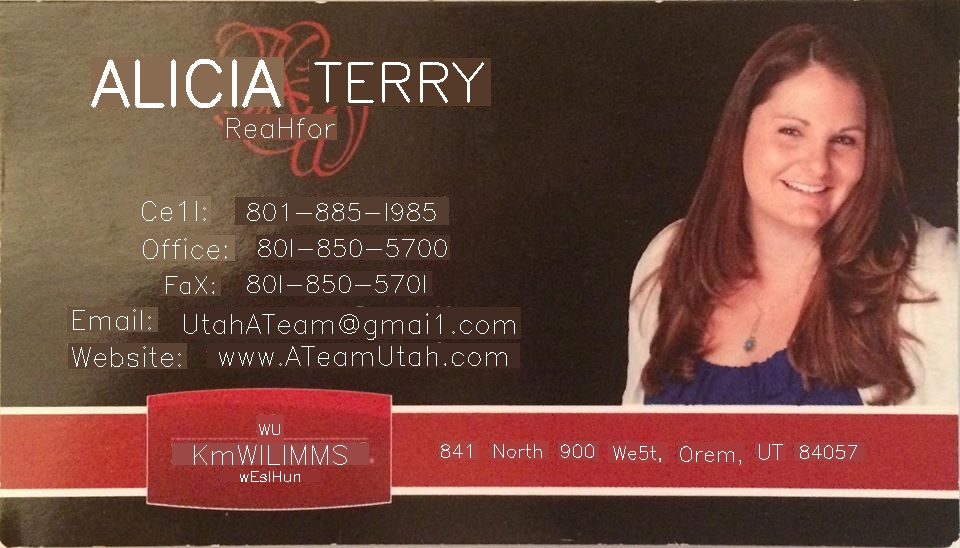
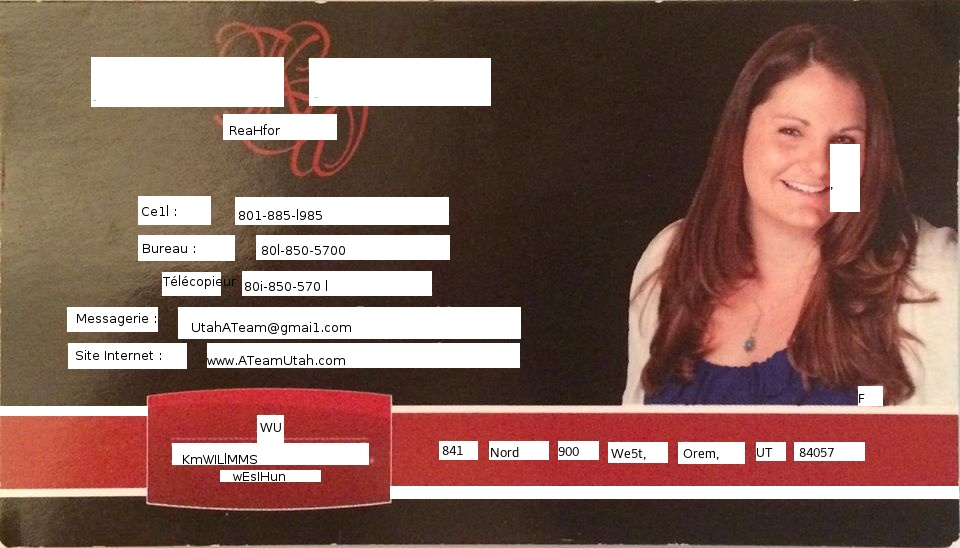
Dernières modifications

diff --git a/readtranslateandwrite.h b/readtranslateandwrite.h
@@ -10,109 +10,119 @@
 using namespace cv;
 using namespace std;
 
-string readTranlateAndWrite(string pathImg)
+Mat readTranslateAndWrite(string pathImg, vector<Rect> &rectangles, vector<string> &componentsRect)
 {
     /// Load source image
     Mat srcImg = imread( pathImg );
-    Mat resImg(srcImg.clone());
 
     std::string voca = "0123456789abcdefghijklmnopqrstuvwxyzABCDEFGHIJKLMNOPQRSTUVWXYZ'.:(),@-";
 
     auto ocr = text::OCRTesseract::create(nullptr, "eng", voca.c_str());
-
-    vector<Rect>   rectangles;
-    vector<string> componentsRect;
+    
     string out;
     ocr->run(srcImg, out, &rectangles, &componentsRect);
 
+    return srcImg;
+}
+
+void rewriteImage(const string &pathImg, const Mat srcImg, Mat &resImg, const vector<Rect> &rectangles,
+                    const vector<string> &componentsRect, int i)
+{
     Mat threshCrop, grayCrop, cropImg;
 
-    // For each rectangle of text found by tesseract
-    for (int i=0; i < rectangles.size(); i++)
-    {
-        if(componentsRect[i].size() > 1)
-        {
-            // Removing text
-
-            // Cropped img
-            cropImg = Mat(srcImg, rectangles[i]);
-            // Convert to Gray
-            cvtColor(cropImg, grayCrop, CV_RGB2GRAY);
-            // Threshold
-            threshold(grayCrop, threshCrop, 0, 255, THRESH_BINARY + THRESH_OTSU);
-
-            // FindContours
-            vector<vector<Point> > contours;
-            vector<Vec4i> hierarchy;
-            findContours(threshCrop, contours, hierarchy, CV_RETR_TREE, CV_CHAIN_APPROX_SIMPLE);
-
-            // if text color == white, inverse color
-            if ( (int) threshCrop.at<unsigned char>(contours[0][0].x,contours[0][0].y) != 255 )
-            {
-                // create a matrix with all elements equal to 255 for subtraction
-                Mat sub_mat = Mat::ones(threshCrop.size(), threshCrop.type())*255;
-
-                //subtract the original matrix by sub_mat to give the negative output new_image
-                subtract(sub_mat, threshCrop, threshCrop);
-            }
-
-            // extract background of cropped Mat
-            auto m = mean(cropImg, threshCrop);
-
-            // Draw mean reactangle on result Image
-            rectangle(resImg, rectangles[i].tl(), rectangles[i].br(), cv::Scalar(m[0], m[1], m[2]), CV_FILLED);
-
-            /******* Adapt text size to rectangle *******/
-            Size textRectangle = rectangles[i].size();
-
-
-            String text = componentsRect[i];
-            int fontFace = FONT_HERSHEY_SIMPLEX;
-            double fontScale = 20;
-            int thickness = textRectangle.height/16;
-            if (thickness == 0)
-                thickness = 1;
-            int baseline=0;
-
-            Size textSize = getTextSize(text, fontFace, fontScale, thickness, &baseline);
-            while ( textRectangle.height < textSize.height
-                    || textRectangle.width < textSize.width )
-            {
-                fontScale -= 0.1;
-                textSize = getTextSize(text, fontFace, fontScale, thickness, &baseline);
-            }
-
-            // center the text
-            Point textOrg(rectangles[i].tl().x + (rectangles[i].width - textSize.width)/2,
-                          rectangles[i].br().y - (rectangles[i].height - textSize.height)/2);
-
-            // then put the text in the mean rectangle
-            putText(resImg, text, textOrg, fontFace, fontScale,
-                    Scalar::all(255), thickness, 8);
-            cout << srcImg.at<Vec3b>(rectangles[i].tl().x + contours[0][0].x,
-                    rectangles[i].tl().y + contours[0][0].y) << endl;
-
-        }
-    }
-
-    //std::cout << out << std::endl;
-
-    //cv::imshow("result", resImg);
-    //cv::waitKey();
-
-    /// Create Window with source image
     char* source_window = "Source";
     namedWindow( source_window, CV_WINDOW_AUTOSIZE );
 
-    cv::imshow(source_window, resImg);
-    cv::waitKey();
+    if(componentsRect[i].size() > 1)
+    {
+        // Removing text
+
+        // Cropped img
+        cropImg = Mat(srcImg, rectangles[i]);
+        // Convert to Gray
+        cvtColor(cropImg, grayCrop, CV_RGB2GRAY);
+        // Threshold
+        threshold(grayCrop, threshCrop, 0, 255, THRESH_BINARY + THRESH_OTSU);
+
+        // FindContours
+        vector<vector<Point> > contours;
+        vector<Vec4i> hierarchy;
+        findContours(threshCrop, contours, hierarchy, CV_RETR_TREE, CV_CHAIN_APPROX_SIMPLE);
+        /*
+        if (contours.size() == 0)
+            return;
+        */
+
+        // if text color == white, inverse color
+        if ( (int) threshCrop.at<unsigned char>(contours[0][0].x,contours[0][0].y) != 255 )
+        {
+            // create a matrix with all elements equal to 255 for subtraction
+            Mat sub_mat = Mat::ones(threshCrop.size(), threshCrop.type()) * 255;
+
+            //subtract the original matrix by sub_mat to give the negative output new_image
+            subtract(sub_mat, threshCrop, threshCrop);
+        }
+
+        // extract background of cropped Mat
+        auto m = mean(cropImg, threshCrop);
+
+        // Draw mean reactangle on result Image
+        rectangle(resImg, rectangles[i].tl(), rectangles[i].br(), Scalar(m[0], m[1], m[2]), CV_FILLED);
+
+        /******* Adapt text size to rectangle *******/
+        Size textRectangle = rectangles[i].size();
+
+
+        String text = componentsRect[i];
+
+
+
+        int fontFace = FONT_HERSHEY_SIMPLEX;
+        double fontScale = 20;
+        int thickness = textRectangle.height/16;
+        if (thickness == 0)
+            thickness = 1;
+        int baseline=0;
+
+        Size textSize = getTextSize(text, fontFace, fontScale, thickness, &baseline);
+        while ( textRectangle.height < textSize.height
+                || textRectangle.width < textSize.width )
+        {
+            fontScale -= 0.1;
+            textSize = getTextSize(text, fontFace, fontScale, thickness, &baseline);
+        }
+
+        // center the text
+        Point textOrg(rectangles[i].tl().x + (rectangles[i].width - textSize.width)/2,
+                      rectangles[i].br().y - (rectangles[i].height - textSize.height)/2);
+
+        // then put the text in the mean rectangle
+
+        //QtFont font = fontQt("Times", fontScale);
+        //addText(resImg, text, textOrg, font);
+        putText(resImg, text, textOrg, fontFace, fontScale, Scalar_<int>::all(255), thickness, 8);
+        //cout << srcImg.at<Vec3b>(rectangles[i].tl().x + contours[0][0].x, rectangles[i].tl().y + contours[0][0].y) << endl;
+
+    }
+}
+
+string writeToFile(const string &pathImg, const Mat &resImg)
+{
+    // Create Window with source image
+    //char* source_window = "Source";
+    //namedWindow( source_window, CV_WINDOW_AUTOSIZE );
+
+    imshow("Source", resImg);
+    waitKey();
 
     size_t pos = pathImg.find_last_of('.');
-    pathImg.insert(pos, "_trad");
 
-    imwrite(pathImg, resImg);
-    cout << "image : " << pathImg << " created !";
+    string pathResImg = pathImg;
+    pathResImg.insert(pos, "_trad");
 
-    return pathImg;
+    imwrite(pathResImg, resImg);
+    cout << "image : " << pathResImg << " created !";
+
+    return pathResImg;
 }
 

diff --git a/mainwindow.cpp b/mainwindow.cpp
@@ -7,11 +7,55 @@ MainWindow::MainWindow(QWidget *parent) :
     ui(new Ui::MainWindow)
 {
     ui->setupUi(this);
+
+    m_translator = new BingTranslator(this);
+
+    m_scene = new QGraphicsScene(ui->graphicsView);
+
+    connect(m_translator, &BingTranslator::translationSent, this, &MainWindow::text_translated);
+
+    connect(m_translator, &BingTranslator::translationError, [this](QString message) {
+        cout << message.toStdString() << endl;
+
+        m_translationCounter++;
+
+        if (m_translationCounter == m_rectanglesTexts.size()) {
+            displayResults();
+        } else {
+            m_translator->translate(m_rectanglesTexts[m_translationCounter], "en", "fr", m_translationCounter);
+        }
+    });
 }
 
 MainWindow::~MainWindow()
 {
     delete ui;
+}
+
+void MainWindow::text_translated(std::string text, int id)
+{
+    m_translatedRectangles[id] = text;
+
+    cout << "Traduction rectangle : " << id << endl;
+
+    rewriteImage(fileName.toStdString(), m_srcImg, m_resImg, m_rectangles, m_translatedRectangles, id);
+    m_translationCounter++;
+    
+    if (m_translationCounter == m_rectanglesTexts.size()) {
+        for (string s : m_translatedRectangles) {
+            cout << s << endl;
+        }
+        displayResults();
+    } else {
+        m_translator->translate(m_rectanglesTexts[m_translationCounter], "en", "fr", m_translationCounter);
+    }
+}
+
+void MainWindow::displayResults() const
+{
+    const string resFileName = writeToFile(fileName.toStdString(), m_resImg);
+
+    m_scene->addPixmap(QPixmap(QString::fromStdString(resFileName)));
 }
 
 
@@ -30,13 +74,12 @@ void MainWindow::on_pushButton_2_clicked()
         }
         QTextStream in(&file);
 
-        QGraphicsScene *scene = new QGraphicsScene;
         QPixmap pixmap(fileName);
-        scene->addPixmap(pixmap);
-        ui->graphicsView->setScene(scene);
+        m_scene->addPixmap(pixmap);
+        ui->graphicsView->setScene(m_scene);
         ui->graphicsView->show();
-        ui->graphicsView->ensureVisible ( scene->sceneRect() );
-        ui->graphicsView->fitInView( scene->sceneRect(), Qt::KeepAspectRatio);
+        ui->graphicsView->ensureVisible ( m_scene->sceneRect() );
+        ui->graphicsView->fitInView( m_scene->sceneRect(), Qt::KeepAspectRatio);
 
         file.close();
     }
@@ -44,7 +87,10 @@ void MainWindow::on_pushButton_2_clicked()
 
 void MainWindow::on_pushButton_clicked()
 {
-    std::string tradFile = readTranlateAndWrite(fileName.toStdString());
-    QString newFile = QString::fromStdString(tradFile);
+    m_srcImg = readTranslateAndWrite(fileName.toStdString(), m_rectangles, m_rectanglesTexts);
+    m_resImg = m_srcImg.clone();
 
+    m_translatedRectangles = m_rectanglesTexts;
+
+    m_translator->translate(m_rectanglesTexts[m_translationCounter], "en", "fr", (int) m_translationCounter);
 }

diff --git a/mainwindow.h b/mainwindow.h
@@ -7,6 +7,7 @@
 #include <QGraphicsScene>
 #include <QGraphicsView>
 #include "ui_mainwindow.h"
+#include "BingTranslator.h"
 #include <QFileDialog>
 #include <QFile>
 #include <QMessageBox>
@@ -14,6 +15,8 @@
 #include <QPixmap>
 #include <iostream>
 #include <fstream>
+#include <opencv2/core/types.hpp>
+#include <opencv2/core/mat.hpp>
 
 namespace Ui {
 class MainWindow;
@@ -31,11 +34,24 @@ public:
 private slots:
     void on_pushButton_2_clicked();
     void on_pushButton_clicked();
+    void text_translated(std::string text, int id);
 
 private:
     Ui::MainWindow *ui;
     QString fileName;
 
+    std::vector<cv::Rect> m_rectangles{};
+    std::vector<std::string> m_rectanglesTexts{};
+    std::vector<std::string> m_translatedRectangles{};
+
+    BingTranslator *m_translator{NULL};
+    cv::Mat m_srcImg{};
+    cv::Mat m_resImg{};
+
+    unsigned long m_translationCounter{0};
+    QGraphicsScene *m_scene;
+
+    void displayResults() const;
 };
 
 

diff --git a/BingTranslator.cpp b/BingTranslator.cpp
@@ -26,7 +26,7 @@ BingAuthReply::BingAuthReply(QByteArray array)
     emit tokenSent(array);
 }
 
-BingTranslator::BingTranslator()
+BingTranslator::BingTranslator(QObject *parent = Q_NULLPTR) : QObject(parent)
 {
     m_last_token_update.start();
 }
@@ -39,8 +39,6 @@ void BingTranslator::translate(std::string text, std::string src, std::string de
                 QString("https://api.microsofttranslator.com/V2/Http.svc/Translate?from=%1&to=%2&text=%3")
                         .arg(QString(src.c_str()), QString(dest.c_str()), QString(text.c_str()))
         );
-
-        std::cout << url.toString().toStdString() << std::endl;
 
         QNetworkRequest request = QNetworkRequest(url);
         request.setRawHeader("Authorization", QByteArray("Bearer ") + token);

diff --git a/BingTranslator.h b/BingTranslator.h
@@ -29,7 +29,7 @@ class BingTranslator : public QObject
     Q_OBJECT
 
 public:
-    BingTranslator();
+    BingTranslator(QObject *parent);
 
     void translate(std::string text, std::string src, std::string dest, int id);
 
